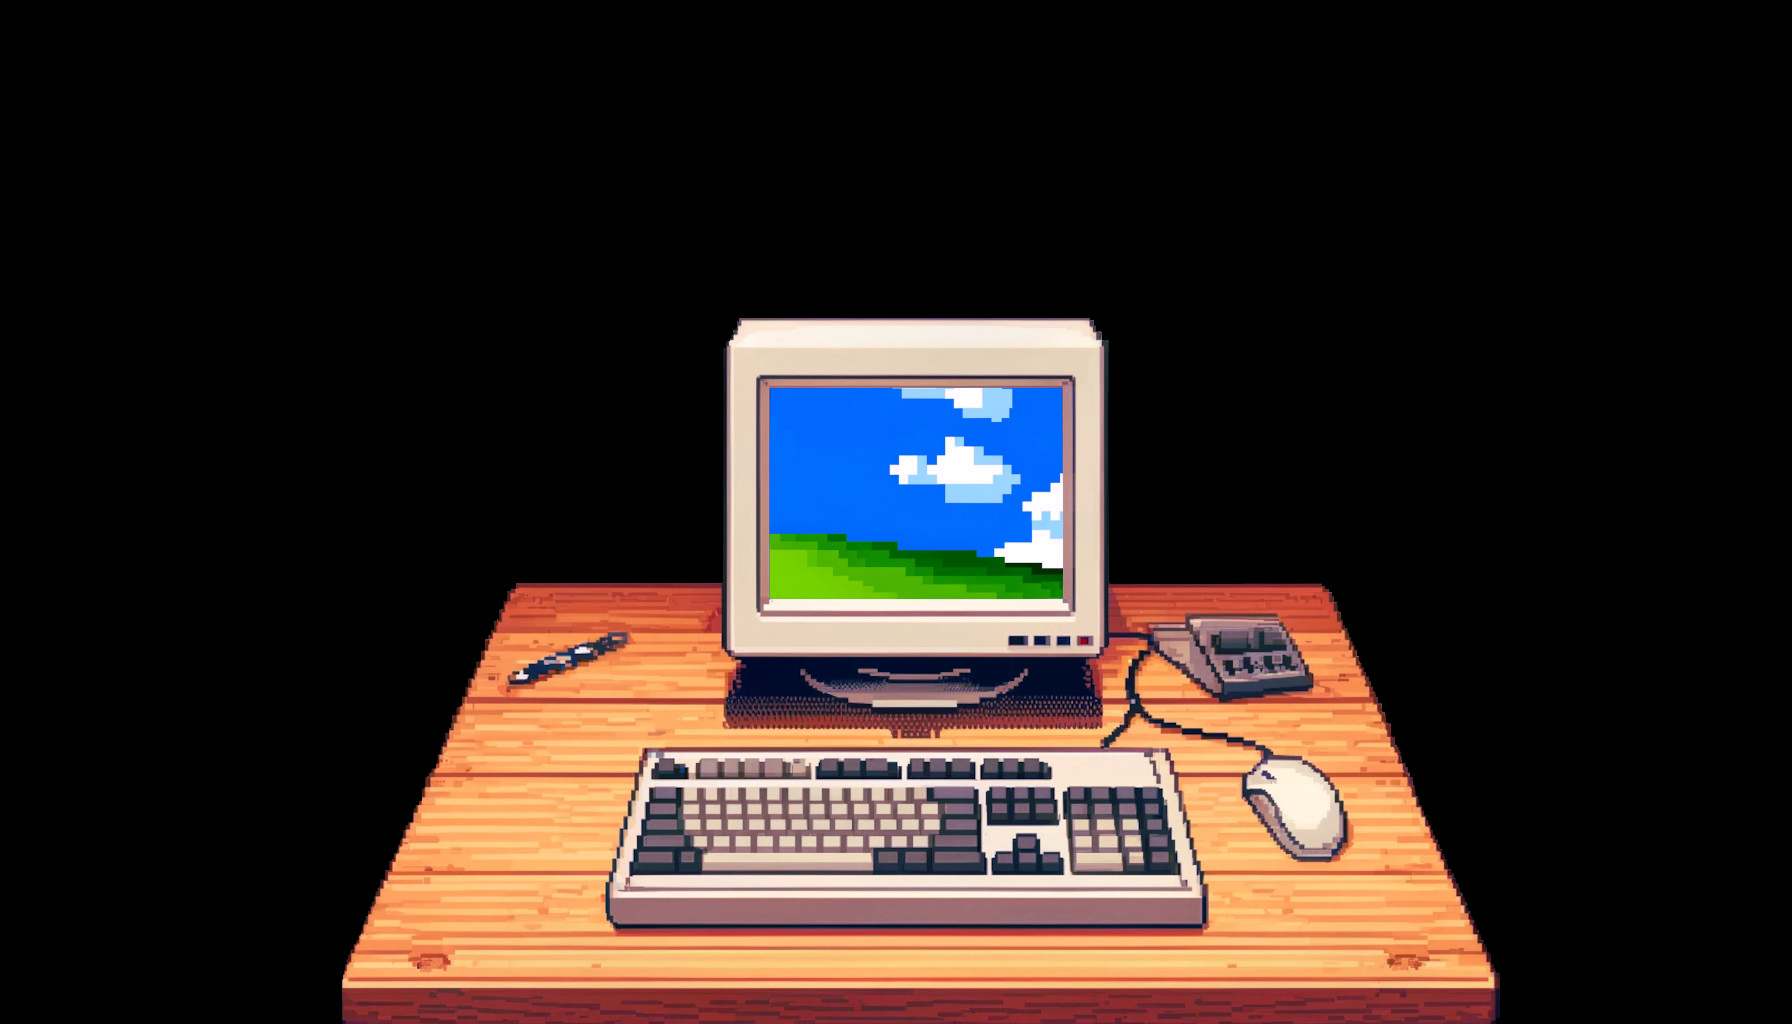
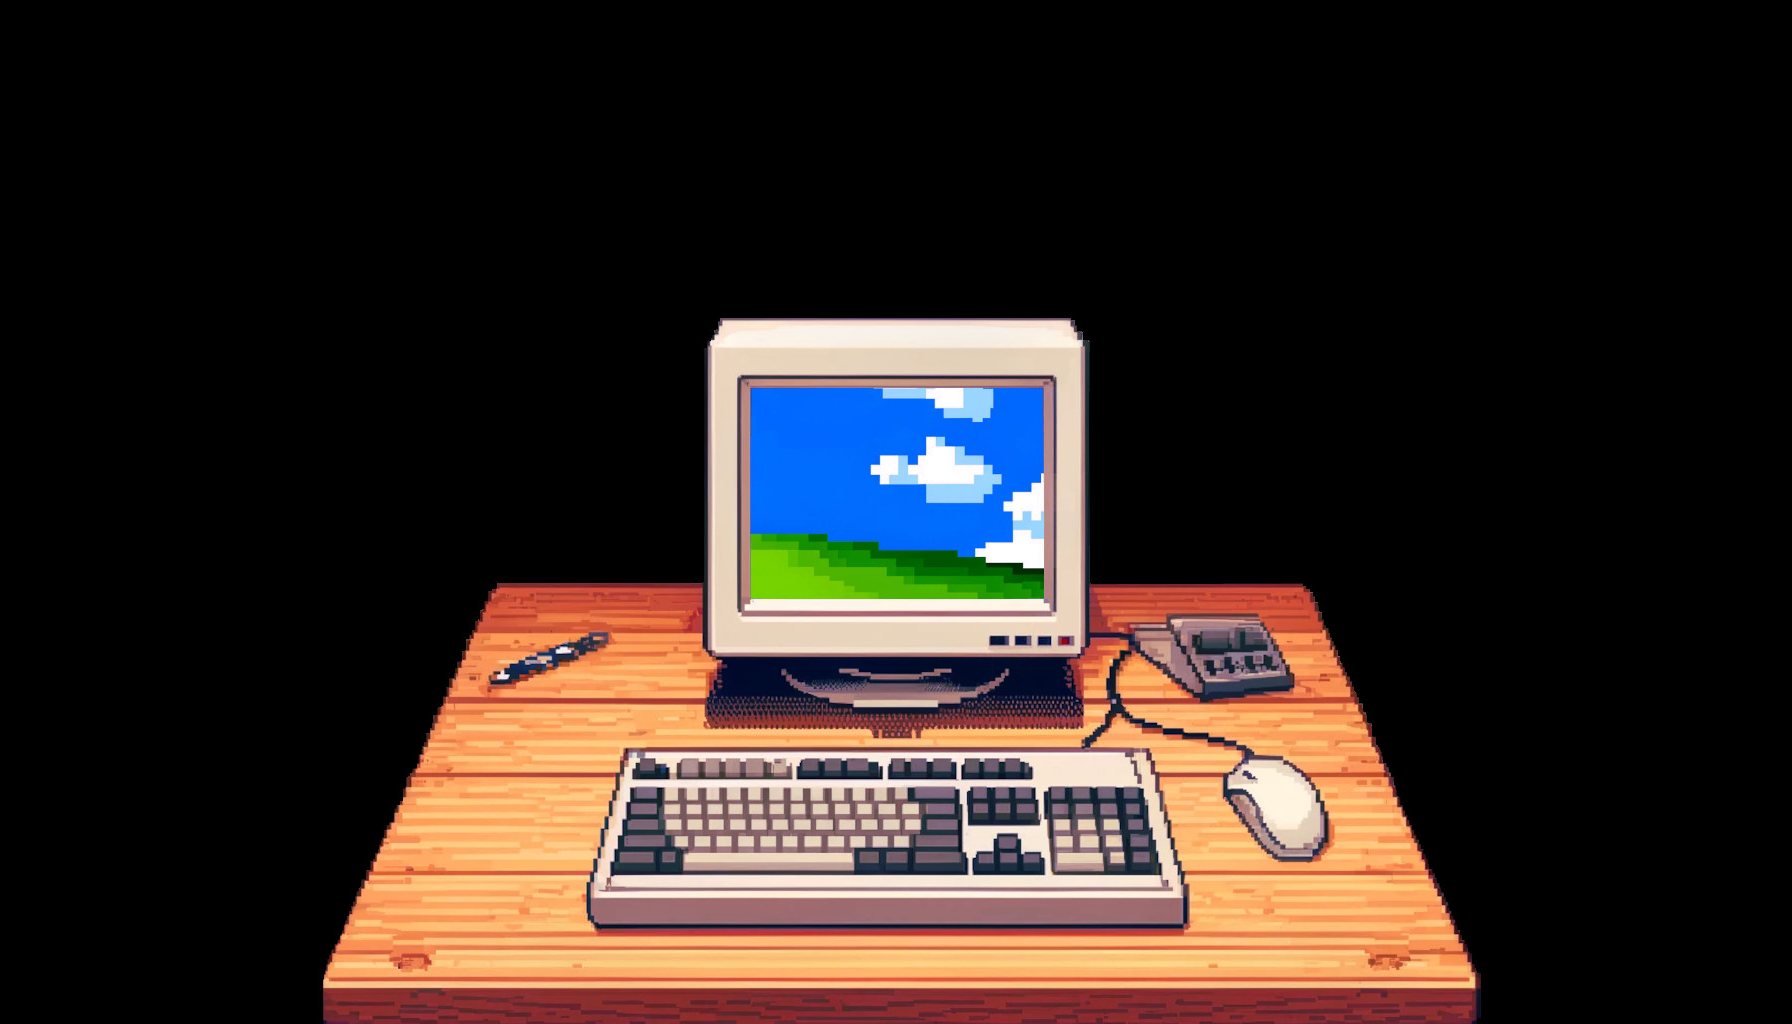
add onStateChange functionality for scene backgrounds too

Changed region(s): [[0.2812, 0.3125, 0.8438, 1.0], [0.1562, 0.5625, 0.4688, 1.0]]

diff --git a/data/gameData.js b/data/gameData.js
@@ -4,7 +4,7 @@
 import Player from "../logic/player.js";
 import Numpad from "../logic/numpad.js";
 
-/* 
+/*
  * INTERACTIONS
  */
 import updateSpriteTexture from "../logic/interactions/updateSpriteTexture.js";
@@ -103,7 +103,6 @@ import button_0 from "../resources/images/numpad_scene/button0.png";
 import reset_button from "../resources/images/numpad_scene/resetButton.png";
 import enter_button from "../resources/images/numpad_scene/enterButton.png";
 
-
 const gameData = {
   mainScene: {
     background: main_scene_bg,
@@ -180,11 +179,7 @@ const gameData = {
           if (gameState.hasCompletedGame) {
             updateAnimatedSpriteTextures(
               item,
-              [
-                sepeli_machine_1,
-                sepeli_machine_2,
-                sepeli_machine_3,
-              ],
+              [sepeli_machine_1, sepeli_machine_2, sepeli_machine_3],
               0.06,
               true
             );
@@ -217,9 +212,6 @@ const gameData = {
         image: numpad_small_closed,
         onStateChange: (app, item) => {
           if (gameState.hasUnlockedDoor) {
-            item.width = 128;
-            item.height = 80.2;
-            item.x = app.renderer.width / 2 + 96;
             updateSpriteTexture(item, numpad_small_open);
           }
         },
@@ -227,11 +219,11 @@ const gameData = {
         type: ITEM_TYPES.item,
         name: "Lock",
         location: {
-          x: 0.55,
+          x: 0.565,
           y: 0.59,
         },
-        width: 74.6,
-        height: 80.2,
+        width: 1527 / 12,
+        height: 986 / 12,
         collisionHeight: 5, // not yet used
         maxDistance: 250,
         onInteraction: (app) => () =>
@@ -373,8 +365,8 @@ const gameData = {
           x: 0.78,
           y: 0.82,
         },
-        width: 277 * 0.8,
-        height: 339 * 0.8,
+        width: 277,
+        height: 339,
         collisionHeight: 0, // not yet used
         interactionRange: 50,
         onInteraction: (app) => () => {
@@ -604,9 +596,14 @@ const gameData = {
     ],
   },
   numpadScene: {
-    background: black_bg,
-    backgroundWidth: 1792,
+    background: numpad_scene_bg_closed,
+    backgroundWidth: 1796,
     backgroundHeight: 1024,
+    onStateChange: (app, item) => {
+      if (gameState.hasUnlockedDoor) {
+        updateSpriteTexture(item, numpad_scene_bg_open);
+      }
+    },
     items: [
       {
         image: backarrow_img,
@@ -649,6 +646,7 @@ const gameData = {
         },
         zIndex: 10,
       },
+      /*
       {
         image: numpad_scene_bg_closed,
         visible: true,
@@ -663,12 +661,13 @@ const gameData = {
           x: 0.5,
           y: 1,
         },
-        width: 1400,
-        height: 800,
+        width: 1792,
+        height: 1024,
         collisionHeight: 0, // not yet used
         onInteraction: null,
         zIndex: 0,
       },
+*/
       {
         image: red_button_img,
         visible: false,
@@ -683,8 +682,8 @@ const gameData = {
           x: 0.5,
           y: 0.666,
         },
-        width: 323 * 0.8,
-        height: 319 * 0.8,
+        width: 323,
+        height: 319,
         collisionHeight: 0, // not yet used
         onInteraction: (app) => () => {
           gameState.hasCompletedGame = true;
@@ -721,8 +720,8 @@ const gameData = {
           lineHeight: 117,
         },
         location: {
-          x: 700,
-          y: 196,
+          x: 0.5,
+          y: 0.25,
         },
         zIndex: 12,
         onInteraction: null,
@@ -1020,10 +1019,7 @@ const gameData = {
     background: mousehole_scene_bg_1,
     backgroundWidth: 1400,
     backgroundHeight: 800,
-    animatedSpriteTextures: [
-      mousehole_scene_bg_1,
-      mousehole_scene_bg_2,
-    ],
+    animatedSpriteTextures: [mousehole_scene_bg_1, mousehole_scene_bg_2],
     items: [
       {
         image: backarrow_img,

diff --git a/logic/app.js b/logic/app.js
@@ -23,8 +23,8 @@ import openPopup from "./interactions/openPopup.js";
 import VCR_OSD_MONO from "url:../resources/fonts/VCR_OSD_MONO.ttf";
 
 function setupPixiApp() {
-  let targetHeight = window.innerHeight; // Target the full height of the window
-  let targetWidth = targetHeight * ASPECT_RATIO; // Calculate width based on aspect ratio
+  const targetHeight = Math.min(window.innerHeight, screen.height); // Target the full height of the window
+  const targetWidth = targetHeight * ASPECT_RATIO; // Calculate width based on aspect ratio
 
   const app = new Application({
     width: targetWidth,
@@ -73,6 +73,13 @@ function onGameStateChange(property, newValue, oldValue) {
   Object.entries(app.scenes).forEach(([sceneName, sceneData]) => {
     if (sceneData.children) {
       const childrenCopy = [...sceneData.children]; // Shallow copy of the children array
+
+      const sceneBackground = childrenCopy[0];
+
+      if (sceneBackground.onStateChange) {
+        sceneBackground.onStateChange(app, sceneBackground);
+      }
+
       childrenCopy.forEach((item) => {
         if (!item.onStateChange) {
           return;

diff --git a/logic/UI.js b/logic/UI.js
@@ -54,6 +54,10 @@ class UI {
         background.width = targetWidth;
         background.height = targetHeight;
 
+        if (sceneData.onStateChange) {
+          background.onStateChange = sceneData.onStateChange;
+        }
+
         container.addChild(background);
       }
 
@@ -99,8 +103,8 @@ class UI {
         const targetWidth = targetHeight * ASPECT_RATIO;
 
         const text = new Text(itemData.text, itemData.style);
-        text.x = itemData.location.x * 1;
-        text.y = itemData.location.y * 1;
+        text.x = itemData.location.x * targetWidth;
+        text.y = itemData.location.y * targetHeight;
         text.visible = true;
         text.zIndex = itemData.zIndex;
         text.onStateChange = itemData.onStateChange;

diff --git a/logic/walkableArea.js b/logic/walkableArea.js
@@ -38,7 +38,7 @@ export const createWalkableAreas = (app) => {
       walkableArea.beginFill(index === 0 ? 0x00ff00 : 0xffffff);
       walkableArea.drawPolygon(flatPoints);
       walkableArea.endFill();
-      walkableArea.visible = true;
+      walkableArea.visible = false;
       app.mainScene.addChild(walkableArea);
 
       // store the created area

diff --git a/logic/utils/cameraUtils.js b/logic/utils/cameraUtils.js
@@ -17,7 +17,6 @@ export const moveCamera = (app, cameraContainer, direction) => {
 };
 
 export const updateCamera = (app, cameraContainer, player) => {
-  console.log(window.innerHeight);
   /*
   if (window.innerWidth >= MAX_WIDTH) {
     cameraContainer.x = 0;
